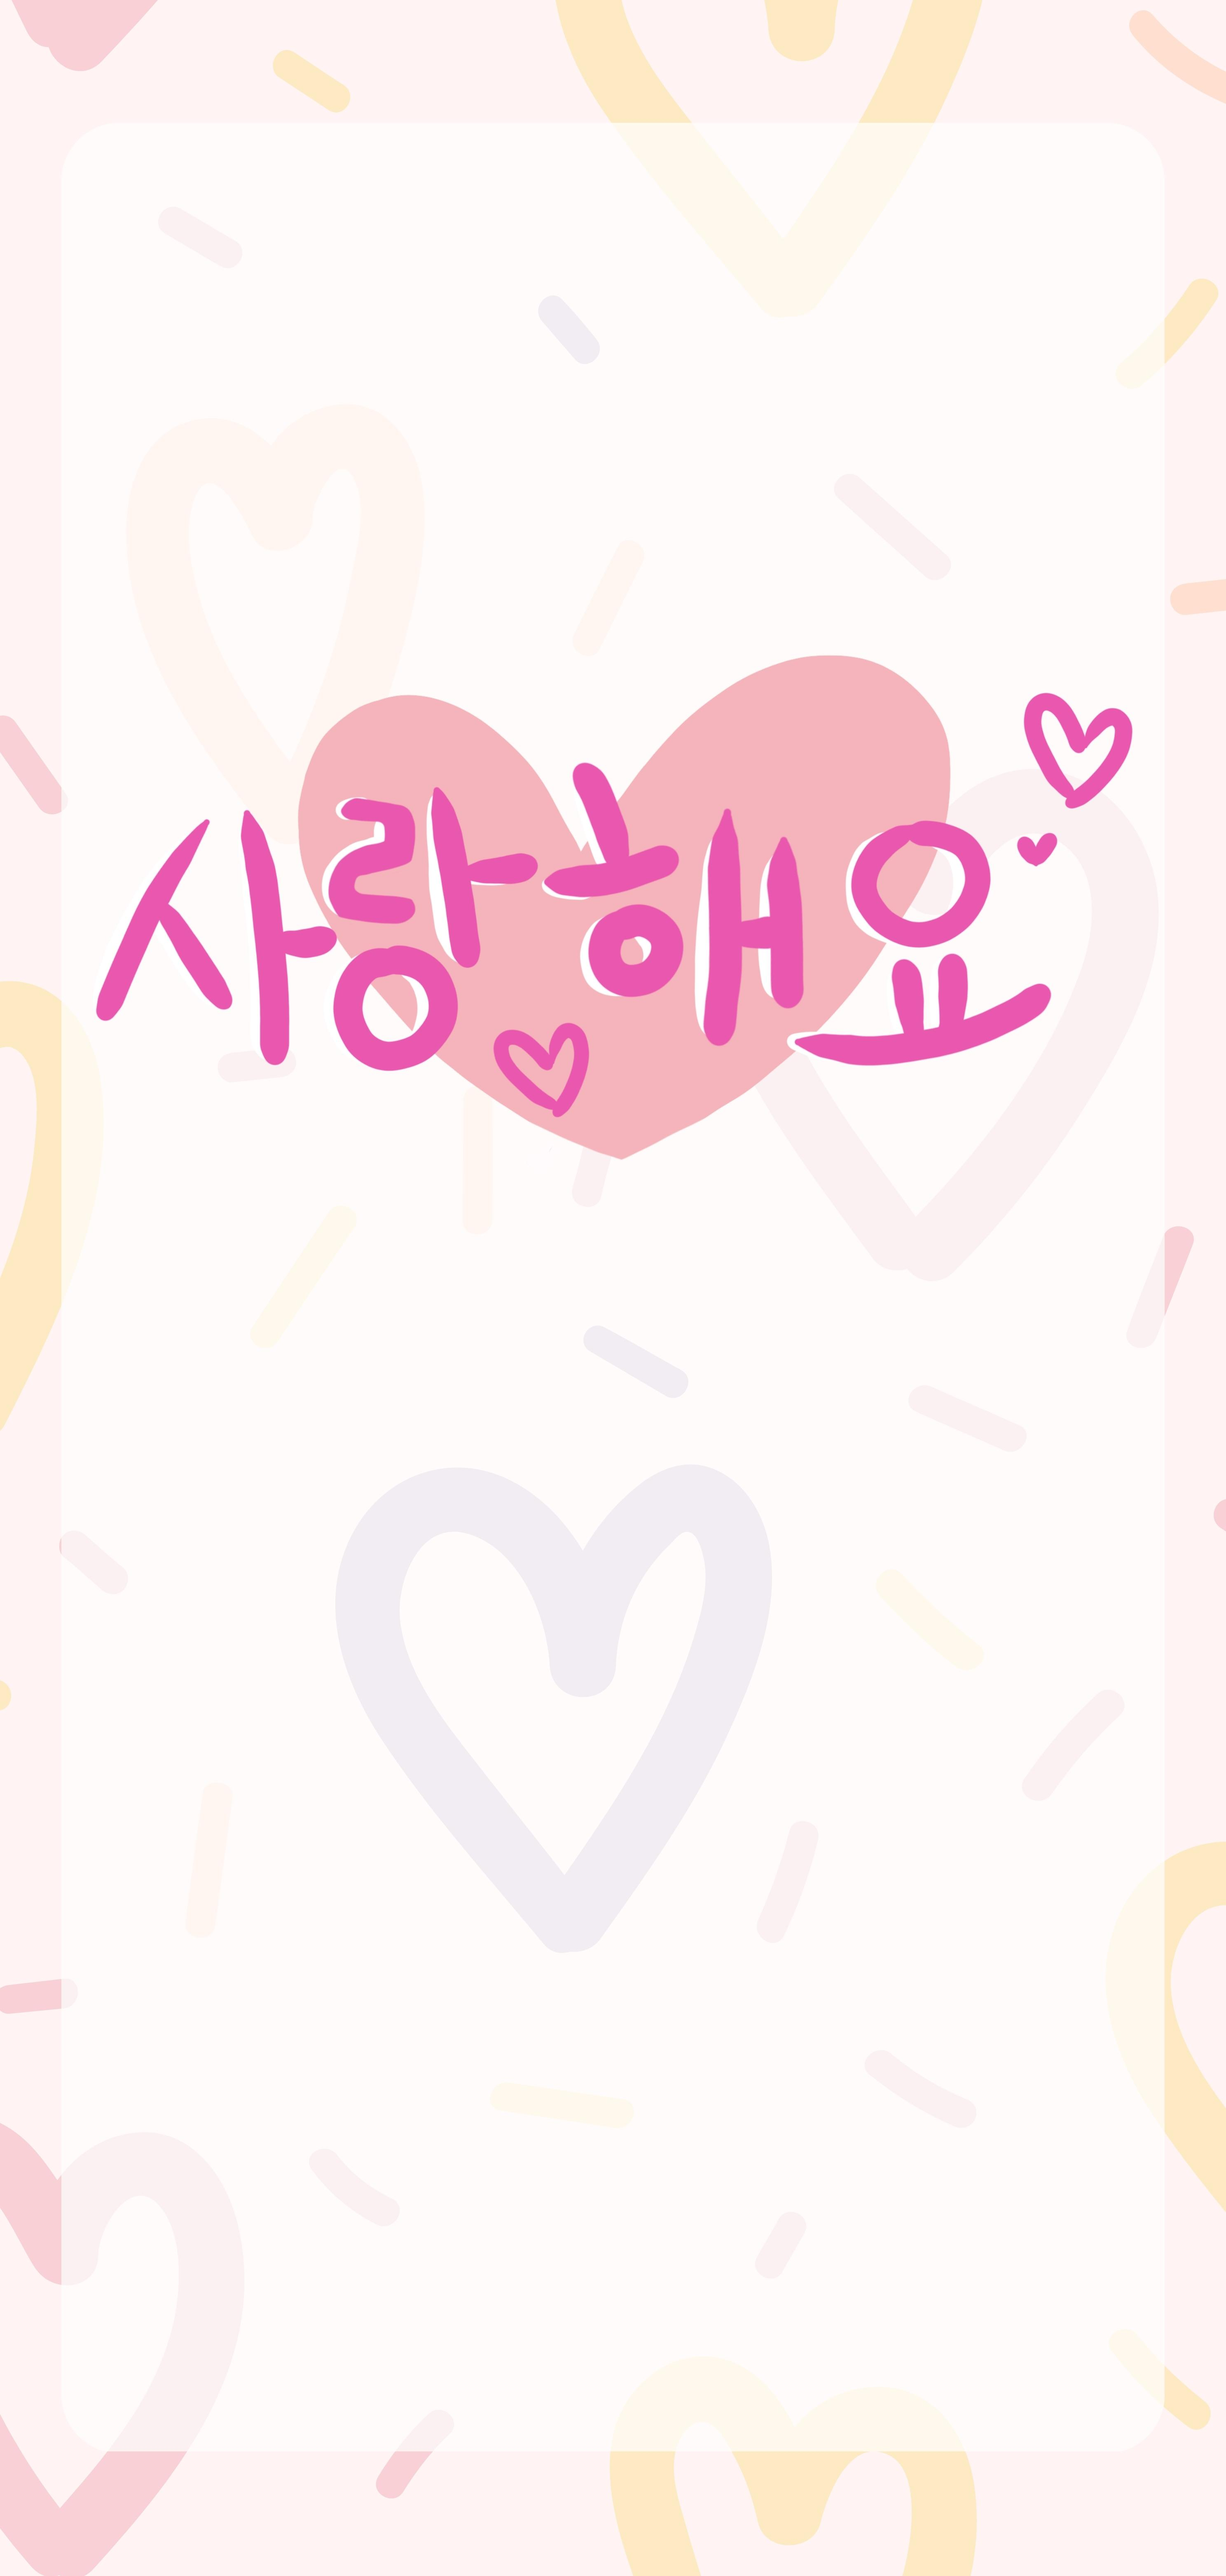
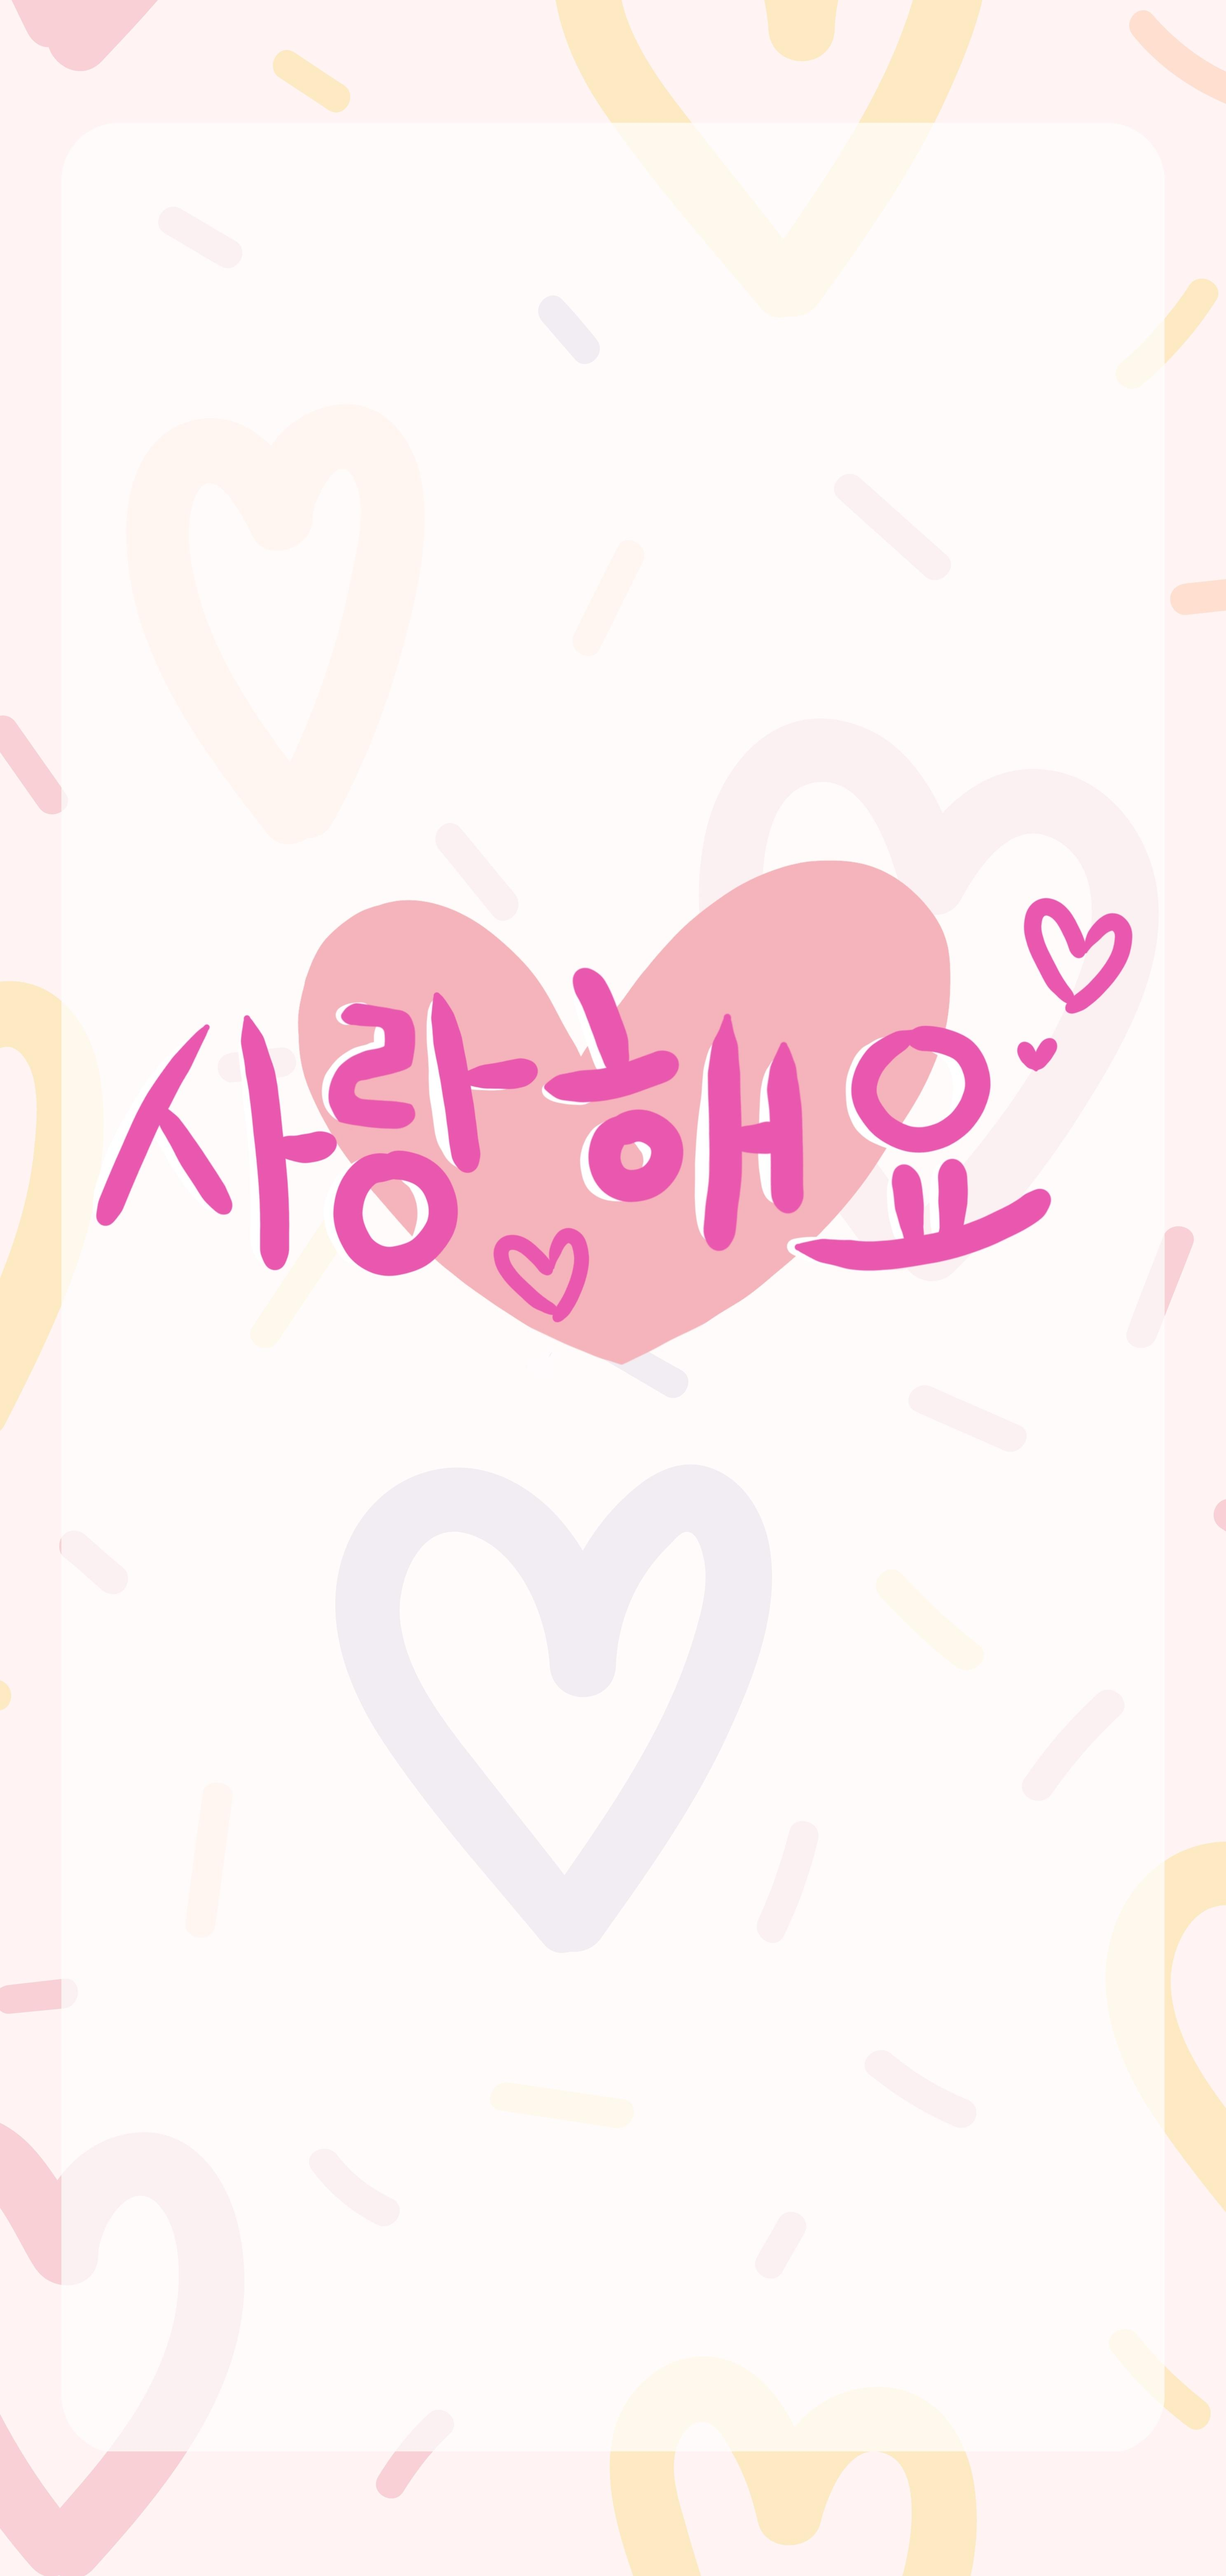
application big update

Changed region(s): [[0.0625, 0.2496, 0.9375, 0.5304]]

diff --git a/web/index.html b/web/index.html
@@ -1,6 +1,5 @@
 <!DOCTYPE html>
 <html>
-
 <head>
   <!--
     If you are serving your web app in a path other than the root, change the
@@ -28,7 +27,7 @@
   <link rel="apple-touch-icon" href="icons/Icon-192.png">
 
   <!-- Favicon -->
-  <link rel="icon" type="image/png" href="favicon.png" />
+  <link rel="icon" type="image/png" href="favicon.png"/>
 
   <title>flutter_application_kpop_start</title>
   <link rel="manifest" href="manifest.json">
@@ -40,17 +39,16 @@
   <!-- This script adds the flutter initialization JS code -->
   <script src="flutter.js" defer></script>
 </head>
-
 <body>
   <script>
-    window.addEventListener('load', function (ev) {
+    window.addEventListener('load', function(ev) {
       // Download main.dart.js
       _flutter.loader.loadEntrypoint({
         serviceWorker: {
           serviceWorkerVersion: serviceWorkerVersion,
         },
-        onEntrypointLoaded: function (engineInitializer) {
-          engineInitializer.initializeEngine().then(function (appRunner) {
+        onEntrypointLoaded: function(engineInitializer) {
+          engineInitializer.initializeEngine().then(function(appRunner) {
             appRunner.runApp();
           });
         }
@@ -58,5 +56,4 @@
     });
   </script>
 </body>
-
 </html>

diff --git a/lib/tabbar.dart b/lib/tabbar.dart
@@ -293,7 +293,7 @@ class _MyStatefulWidgetState extends State<MyStatefulWidget> {
             Container(
               decoration: BoxDecoration(
                 image: DecorationImage(
-                  image: AssetImage('assets/K-POP Blood Type 1.jpg'),
+                  image: AssetImage('assets/K-POP_Blood_Type_1.jpg'),
                   fit: BoxFit.cover,
                 ),
               ),

diff --git a/lib/main.dart b/lib/main.dart
@@ -14,7 +14,7 @@ class MyApp extends StatelessWidget {
   Widget build(BuildContext context) {
     return MaterialApp(
       title: 'Flutter Demo',
-      theme: ThemeData.light(useMaterial3: true),
+      // theme: ThemeData.light(useMaterial3: true),
       home: const MyHomePage(title: 'WELCOME PAGE'),
       // Remove Debug Banner
       debugShowCheckedModeBanner: false,

diff --git a/lib/find_shop.dart b/lib/find_shop.dart
@@ -73,7 +73,6 @@ class _FindShopState extends State<FindShop> {
     return Scaffold(
       appBar: AppBar(
         title: const Text('Nearest Kpop Shop'),
-        backgroundColor: Color(0xFF80B0F5),
       ),
       body: GoogleMap(
         onMapCreated: _onMapCreated,

diff --git a/README.md b/README.md
@@ -1,10 +1,16 @@
 # flutter_application_kpop_start
 
-ITCS424 Wireless and mobile computing. A flutter project.
+A new Flutter project.
 
-Kpop Blood Type
-Team Members
-6388113 Poomrapee Wareeboutr
-6388133 Pitchaya  Teerawongpairoj
-6388196 Sasima    Srijanya
+## Getting Started
 
+This project is a starting point for a Flutter application.
+
+A few resources to get you started if this is your first Flutter project:
+
+- [Lab: Write your first Flutter app](https://docs.flutter.dev/get-started/codelab)
+- [Cookbook: Useful Flutter samples](https://docs.flutter.dev/cookbook)
+
+For help getting started with Flutter development, view the
+[online documentation](https://docs.flutter.dev/), which offers tutorials,
+samples, guidance on mobile development, and a full API reference.
